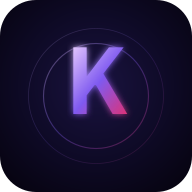
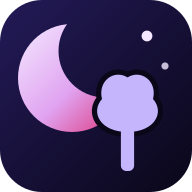
feat: 換掉站台圖示——新月與樹（宙と木） (#183)
原本是深色底上一個發光的「K」，縮到 Google 搜尋結果的 26px 圓形裡只剩一團紫色。

- 新圖示：一彎新月，前面一棵樹。scripts/icons/ 的兩張 SVG 是原稿，
  scripts/gen-icons.mjs 產生全部尺寸（重跑一次就好）
- 16 / 32px 另外一張小尺寸版：完整版縮到那麼小時月亮和樹會糊在一起
- apple-touch-icon 改成滿版無圓角的 180px（iOS 自己裁圓角，透明的角會被填成黑色）；
  maskable 圖案縮到 78%，整個落在 Android 遮罩的安全區內
- <head> 補上 favicon.ico 與 96px PNG 的宣告：在這之前 favicon 全靠瀏覽器猜路徑，
  而 Google 搜尋優先採用宣告過、尺寸是 48 倍數的那張

diff --git a/src/routes/__root.tsx b/src/routes/__root.tsx
@@ -32,7 +32,13 @@ export const Route = createRootRouteWithContext<{ queryClient: QueryClient }>()(
       // feed 自動探索：瀏覽器擴充、聚合器、部分 AI 爬蟲都靠這一行才找得到。
       // 指向既有的 /rss（後端 handlers/rss.rs）——/rss.xml 只是 301 過去的別名。
       { rel: 'alternate', type: 'application/rss+xml', title: 'Koimsurai 手記', href: '/rss' },
-      { rel: 'apple-touch-icon', href: '/pwa-192.png' },
+      // 圖示由 scripts/gen-icons.mjs 從 scripts/icons/ 的 SVG 產生。
+      // 在這之前 favicon.ico 沒有宣告、全靠瀏覽器猜路徑；Google 搜尋優先採用這裡宣告、
+      // 尺寸是 48 倍數的那張，所以另外給一張 96px 的 PNG。
+      { rel: 'icon', href: '/favicon.ico', sizes: '16x16 32x32 48x48' },
+      { rel: 'icon', type: 'image/png', sizes: '96x96', href: '/favicon-96.png' },
+      // 滿版無圓角：iOS 自己裁圓角，透明的角會被填成黑色。
+      { rel: 'apple-touch-icon', href: '/apple-touch-icon.png' },
     ],
   }),
   // 未知路由 → 站內 404 頁(在 AppShell 內,保留導覽列);localeWrap 提供 i18n + locale。
